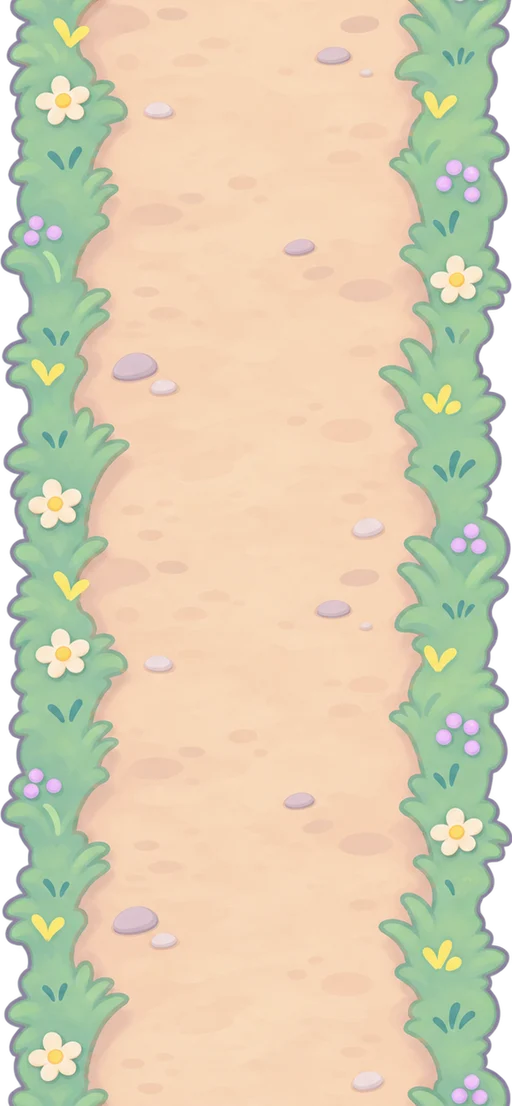
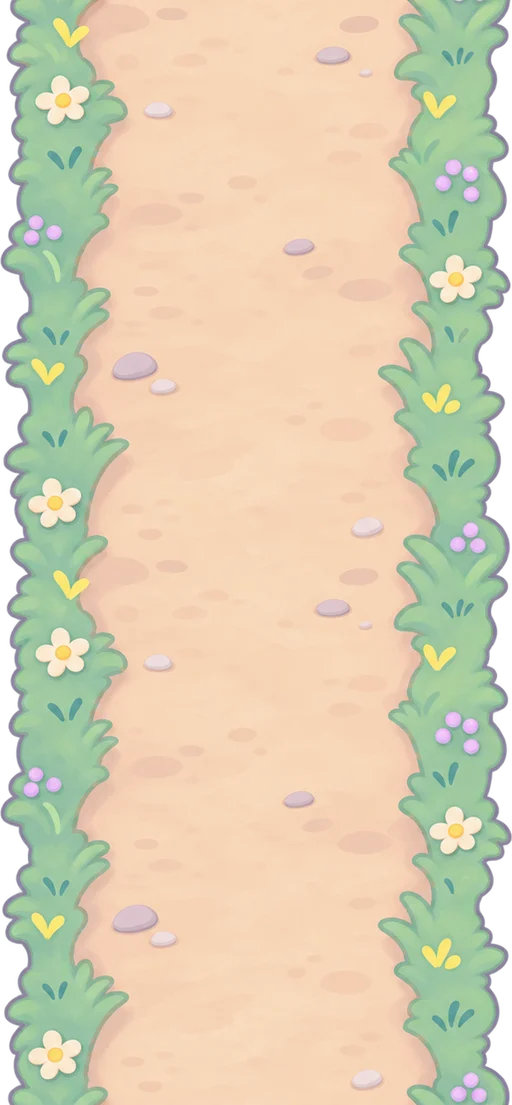
별 잡기: 노랑·주황 나무를 보라·분홍 나무로, 길과 잔디 그림 교체
Claude-Session: https://claude.ai/code/session_011wWXPXfSDQ7tZhHovBGBy9

diff --git a/src/components/starScene3d.ts b/src/components/starScene3d.ts
@@ -6,7 +6,7 @@
 import * as THREE from 'three'
 import { assetUrl } from '../lib/items'
 import { CFG } from '../lib/starChase'
-import { AVATAR_H, FEET, HOUSE_ART, createWorld, meadowTree, type Doll, type World } from './world3d'
+import { AVATAR_H, FEET, HOUSE_ART, TREE_ART, createWorld, type Doll, type World } from './world3d'
 
 export const SLOT_COLORS = ['#ff8fab', '#5fc27a', '#4aa6ea', '#a77be8']
 export const SLOT_SHAPES = ['△', '◇', '□', '○']
@@ -61,7 +61,7 @@ export function createStarScene(el: HTMLElement): StarScene {
   const clear = (x: number, z: number, m: number) => Math.abs(x) < hw + m && Math.abs(z) < hh + m
   const curve = new THREE.CatmullRomCurve3(Array.from({ length: 12 }, (_, i) => { const a = (i / 12) * Math.PI * 2, r = 30 + Math.sin(i * 2.3) * 4; return new THREE.Vector3(Math.cos(a) * r * 1.25, 0, Math.sin(a) * r) }), true)
   const samples = curve.getSpacedPoints(240)
-  const roadW = 3.4
+  const roadW = 4.6, PATH_ASPECT = 512 / 1105 // 새 길 그림: 가장자리 풀 포함 폭
   {
     const pos: number[] = [], idx: number[] = [], uv: number[] = []
     let along = 0
@@ -69,13 +69,13 @@ export function createStarScene(el: HTMLElement): StarScene {
       const t = curve.getTangentAt(i / (samples.length - 1)), n = new THREE.Vector3(-t.z, 0, t.x).normalize().multiplyScalar(roadW / 2)
       pos.push(p.x + n.x, 0.02, p.z + n.z, p.x - n.x, 0.02, p.z - n.z)
       if (i) along += p.distanceTo(samples[i - 1])
-      uv.push(0, along / roadW, 1, along / roadW)
+      uv.push(0, (along * PATH_ASPECT) / roadW, 1, (along * PATH_ASPECT) / roadW)
       if (i) { const a = (i - 1) * 2; idx.push(a, a + 1, a + 2, a + 1, a + 3, a + 2) }
     })
     const geo = w.keep(new THREE.BufferGeometry())
     geo.setAttribute('position', new THREE.Float32BufferAttribute(pos, 3)); geo.setAttribute('uv', new THREE.Float32BufferAttribute(uv, 2)); geo.setIndex(idx); geo.computeVertexNormals()
-    const dirt = w.texOf(assetUrl('cafe/3d/dirt.webp')); dirt.wrapS = dirt.wrapT = THREE.RepeatWrapping
-    scene.add(new THREE.Mesh(geo, w.keep(new THREE.MeshLambertMaterial({ map: dirt, side: THREE.DoubleSide }))))
+    const dirt = tex('path'); dirt.wrapT = THREE.RepeatWrapping; dirt.wrapS = THREE.ClampToEdgeWrapping
+    const road = new THREE.Mesh(geo, w.keep(new THREE.MeshBasicMaterial({ map: dirt, transparent: true, alphaTest: 0.2, side: THREE.DoubleSide }))); road.renderOrder = -1; scene.add(road)
   }
   const nearRoad = (x: number, z: number, d: number) => samples.some((p) => (p.x - x) ** 2 + (p.z - z) ** 2 < d * d)
   HOUSE_ART.forEach((art, k) => {
@@ -90,7 +90,7 @@ export function createStarScene(el: HTMLElement): StarScene {
     const s0 = samples[Math.floor(rnd() * samples.length)], a = rnd() * Math.PI * 2, far = 6 + rnd() * 8
     const [x, z] = i % 2 ? [s0.x + Math.cos(a) * far, s0.z + Math.sin(a) * far] : [(rnd() - 0.5) * 120, (rnd() - 0.5) * 100]
     if (clear(x, z, 2) || nearRoad(x, z, 4.5) || w.obstacles.some((o) => (o.x - x) ** 2 + (o.z - z) ** 2 < 9)) continue
-    w.addTree(x, z, 0.8 + rnd() * 0.5, meadowTree(rnd())); trees++
+    const r0 = rnd(); w.addTree(x, z, 0.8 + rnd() * 0.5, r0 < 0.2 ? { img: 'starchase/tree_dark.webp', aspect: 420 / 440, h: 4.2 } : r0 < 0.4 ? { img: 'starchase/tree_pink.webp', aspect: 420 / 438, h: 4.2 } : TREE_ART[0]); trees++
   }
   let bushes = 0
   for (let i = 0; i < 400 && bushes < 70; i++) {
